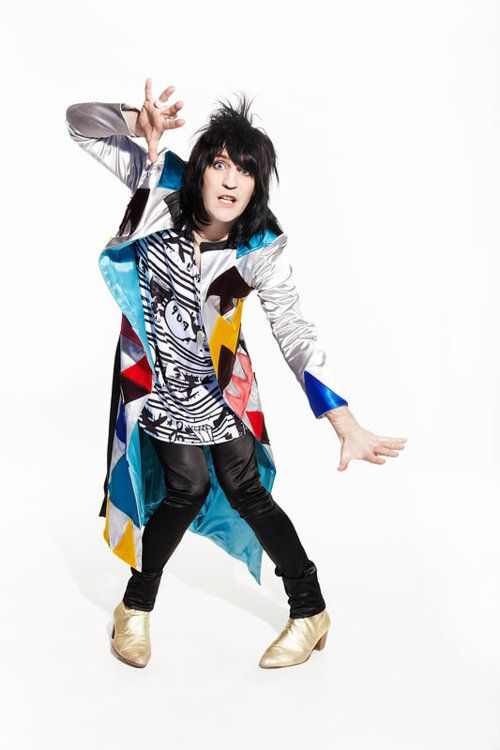
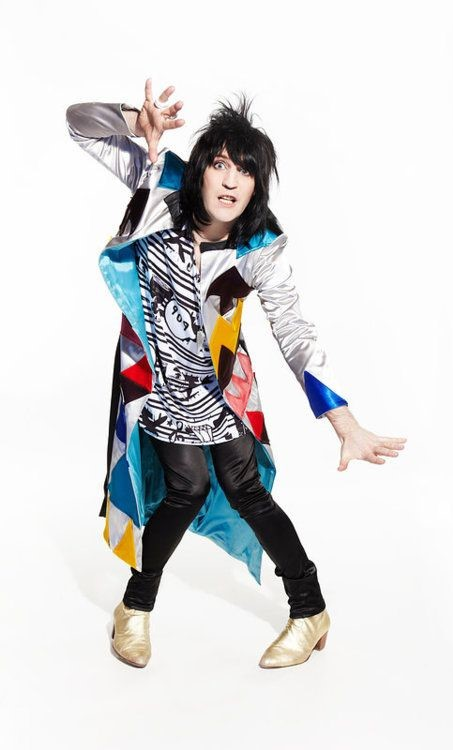
styling more for mobile and bg colour for readability

Changed region(s): [[0.1236, 0.092, 0.8962, 0.8893]]

diff --git a/src/components/wilderNames.css b/src/components/wilderNames.css
@@ -1,39 +1,38 @@
 .wilder-detector-container {
   max-width: 600px;
-  margin: 1rem auto;
-  padding: 2rem;
   background: 
     url('/wilder_names/the_wilderbeast.jpg');
-  background-size: auto 100%;
-  background-position: 20px center;
+  background-size: 70%;
+  background-position: bottom center;
   background-repeat: no-repeat;
   border-radius: 16px;
   box-shadow: 0 8px 25px rgba(0, 0, 0, 0.1);
   font-family: 'Arial', sans-serif;
   border: 2px solid #17a557;
   position: relative;
-  padding-left: 160px;
-  min-height: 400px;
+  height: 700px;
+  display: flex;
+  flex-direction: column;
+  justify-content: space-between;
+}
+
+.wilder-detector-container.no-background {
+  background-image: none;
+  background-color: #f8f9fa;
 }
 
 @media (max-width: 768px) {
   .wilder-detector-container {
     margin: 0.5rem;
-    padding: 1.5rem;
-    padding-left: 1.5rem;
-    background-position: left top;
-    background-size: auto 100%;
+    background-position: bottom center;
     border-radius: 12px;
     max-width: none;
-    min-height: 350px;
   }
 }
 
 @media (max-width: 480px) {
   .wilder-detector-container {
     margin: 0.25rem;
-    padding: 1rem;
-    background-size: auto 100%;
     border-radius: 8px;
     min-height: 300px;
   }
@@ -42,8 +41,7 @@
 .title {
   text-align: center;
   font-size: 1.8rem;
-  margin-bottom: 2rem;
-  padding-top: 2rem;
+  padding-top: 4rem;
   color: #17a557;
   font-weight: bold;
   text-shadow: 1px 1px 2px rgba(0, 0, 0, 0.1);
@@ -105,7 +103,6 @@
 
 .content-section {
   text-align: center;
-  margin-top: 2rem;
   padding: 1.5rem;
   border-radius: 12px;
 }
@@ -115,6 +112,7 @@
   margin-bottom: 1.5rem;
   font-size: 1.5rem;
   word-wrap: break-word;
+  background-color: rgb(255, 255, 255, 0.6);
 }
 
 .content-section p {
@@ -303,7 +301,6 @@
 
 .completion-message {
   text-align: center;
-  padding: 2rem 1rem;
 }
 
 .completion-message h2 {
@@ -515,7 +512,8 @@
 
 .footer {
   text-align: center;
-  margin-top: 1.5rem;
+  margin-top: auto;
+  padding: 1rem;
 }
 
 .footer p {
@@ -527,9 +525,6 @@
 }
 
 @media (max-width: 768px) {
-  .footer {
-    margin-top: 1rem;
-  }
   
   .footer p {
     font-size: 0.85rem;
@@ -539,7 +534,6 @@
 @media (max-width: 480px) {
   .footer p {
     font-size: 0.8rem;
-    padding: 0 0.5rem;
   }
 }
 .last-edit {
@@ -656,7 +650,6 @@
   
   .title {
     font-size: 1.2rem;
-    margin-bottom: 0.8rem;
     padding-top: 0;
   }
   

diff --git a/src/components/wilderNames.jsx b/src/components/wilderNames.jsx
@@ -322,7 +322,9 @@ const WilderNames = () => {
   };
 
   return (
-    <div className="wilder-detector-container">
+    <div className={`wilder-detector-container ${
+      currentStep === 'reveal' || currentStep === 'selfAssigned' ? 'no-background' : ''
+    }`}>
       <div className="title">
         WilderNameDetector2000™
       </div>
